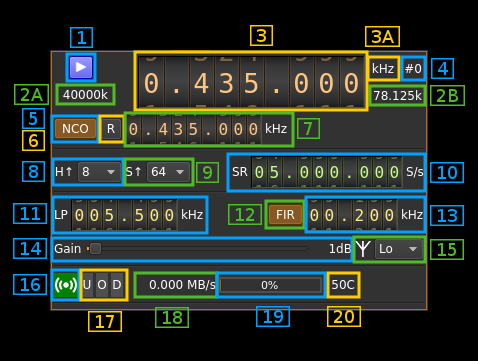
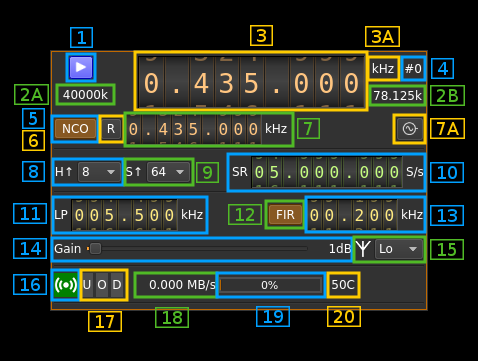
LimeSDR output: updated documentation

Changed region(s): [[0.8201, 0.3047, 0.9958, 0.4266]]

diff --git a/plugins/samplesink/limesdroutput/readme.md b/plugins/samplesink/limesdroutput/readme.md
@@ -83,6 +83,30 @@ This is the center frequency of the mix of LO and NCO combined and is the sink p
 
 &#9758; In the LMS7002M TSP block the NCO sits after the interpolator (see Fig.14 of the [datasheet](http://www.limemicro.com/wp-content/uploads/2015/09/LMS7002M-Data-Sheet-v2.8.0.pdf) p.7) so it runs at the actual DAC rate. Hence the NCO limits are calculated as +/- half the device to host sample rate multiplied by the hardware interpolation factor. For example with a 4 MS/s device to host sample rate (10) and a hadrware interpolation of 16 (8) you have +/- 32 MHz span around the LO for the NCO. In this example you can tune all HF frequencies with the center frequency set at its lowest (30 MHz). 
 
+<h3>7A: External clock control</h3>
+
+Use this button to open a dialog that lets you choose the external clock frequency and enable or disable it. When disabled the internal 30.72 MHz VCTCXO is used.
+
+![LimeSDR input plugin gain GUI](../../../doc/img/LimeSDR_plugin_extclock.png)
+
+<h4>7A.1: Exrernal clock frequency</h4>
+
+Can be varied from 5 to 300 MHz
+
+Use the thumbwheels to adjust frequency as done with the LO (1.1). Pressing shift simultanoeusly moves digit by 5 and pressing control moves it by 2. The boundaries are dynamically calculated from the LO center frequency, sample rate and hardware decimation factor.
+
+<h4>7A.2: Enable/disable external clock input</h7A>
+
+Use this checkbox to enable or disable the external clock input
+
+<h4>7A.3: Confirm changes</h4>
+
+Use the "OK" button to confirm your changes
+  
+<h4>7A.4: Dismiss changes</h4>
+
+Use the "Cancel" button to dismiss your changes
+
 <h3>8: LMS7002M hardware interpolation factor</h3>
 
 The TSP block in the LMS7002M hardware has an interpolation chain that acts on both Tx channels. It is composed of 5 halfband interpolation stages and therefore can achieve interpolation between 1 (no interpolation) and 32 in increasing powers of 2: 1, 2, 4, 8, 16, 32.
